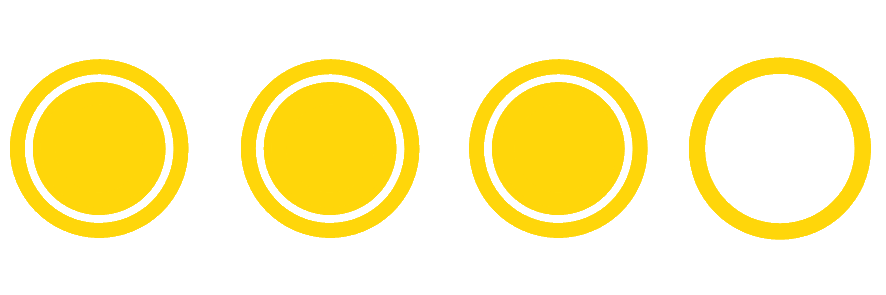
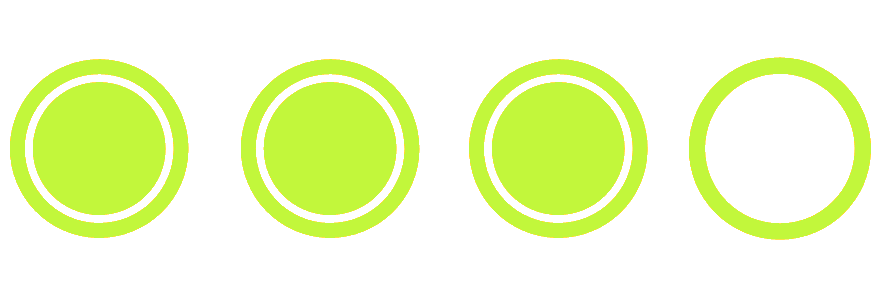
major change in colors, dark mode

diff --git a/css/main.css b/css/main.css
@@ -1,7 +1,15 @@
+/* CSS HEX
+--slate-gray: #6C798Cff;
+--coffee: #5E4B34ff;
+--timberwolf: #D8D9D3ff;
+--cadet-gray: #93A0B2ff;
+
+/*
+
 /* GENERAL */
 body {
-    color: rgb(38, 46, 58);
-    background: #1F2232;
+    color: #EFF7FF;
+    background: #DCEDFF;
     font-family: 'Ubuntu', sans-serif;
     text-align: left;
 }
@@ -10,7 +18,7 @@ body {
     border-radius: 1.2rem;
 }
 .container {
-    background-color: #D7DAE5;
+    background-color: #1b2530;
     margin: 20px auto;
     padding: 5px 0px;
     max-width: 1000px;
@@ -26,7 +34,7 @@ header {
 
 header img {
     width: 120px;
-    border: 3px solid rgb(56, 145, 167);
+    border: 3px solid #2E4052;
     border-left: none;
     border-bottom-right-radius: 1.2rem;
     border-top-right-radius: 1.2rem;
@@ -34,12 +42,10 @@ header img {
     float: left;
 }
 
-
-
 .intro {
-    background-color: #3891a7;
+    background-color: #2E4052;
     padding: 15px;
-    color: #D7DAE5;
+    color: #DCEDFF;
     margin: 20px;
     margin-right: 0px;
     border-top-left-radius: 1.2rem;
@@ -55,14 +61,14 @@ header img {
 .contact {
     padding: 10px 15px;
     float: right;
-    background-color: #D7DAE5;
-    color: #3891a7;
+    background-color: #c2f73b;
+    color: #1b2530;
     text-align: right;
     margin-right: -15px;
     margin-left: auto;
     border-top-left-radius: 1.2rem;
     border-bottom-left-radius: 1.2rem;
-    border: 3px solid #3891a7;
+    border: 3px solid #2E4052;
     border-right: none;
     box-shadow: 2px 2px 3px black;
 }
@@ -72,7 +78,7 @@ header img {
 }
 
 .contact p a {
-    color: #3891a7;
+    color: #1b2530;
 }
 
 h1 {
@@ -80,16 +86,16 @@ h1 {
     font-size: clamp(1.75rem, 10vw, 3.5rem);
     text-shadow: 2px 2px 3px black;
     text-align: left;
-    color: #F7F06D;
+    color: #F18F01;
     margin: 10px 0px 20px 0px;
-    border-bottom: 2px solid #D7DAE5;
+    border-bottom: 2px solid #DCEDFF;
 }
 
 h2 {
     font-family:  'Comfortaa', cursive;
     font-size: clamp(20px, 7vw, 28px);
     margin: 0;
-    color: #1F2232;
+    color: #DCEDFF;
 }
 
 /* MAIN */
@@ -119,7 +125,9 @@ li {
 }
 
 button {
-    background-color: #3891a7;
+    background-color: #2E4052;
+    font-family: 'Ubuntu', sans-serif;
+    color: #c2f73b;
     cursor: pointer;
     border-radius: 10px;
     border: none;
@@ -152,9 +160,9 @@ button.link {
 
 
 .skillLevel {
-    border-bottom: 2px solid #D7DAE5;
+    border-bottom: 2px solid #F18F01;
     max-width: 150px;
-    color: rgb(137, 225, 247);
+    color: #F18F01;
     margin-bottom: 20px;
 }
 
@@ -173,20 +181,19 @@ button.link {
 
 .detailsBox {
     display: none;
-    background-color: #1F2232;
-    color: #D7DAE5;
+    background-color: #1b2530;
+    color: #EFF7FF;
     padding: 30px;
     border-radius: 15px;
-    margin: 10px 20px;
-    margin-top: -5px;
+    margin: 5px 20px;
+    border: 2px solid #2E4052;
     box-shadow: 2px 2px 3px black;
 }
 
-
-.skills .detailsBox, .certification .detailsBox {
-    margin: 10px;
-    margin-top: 5px;
+.certification .detailsBox, .skills .detailsBox{
+    margin: 5px 0px;
 }
+
 
 .icon {
     width: clamp(35px, 10vw, 50px);
@@ -238,7 +245,7 @@ a {
     
     .intro {
         padding: 20px 20px;
-        color: #D7DAE5;
+        color: ##DCEDFF;
         border-bottom: none;
         margin-right: 0px;
         border-top-left-radius: 1.2rem;
@@ -252,12 +259,12 @@ a {
 /* USE HOVER STYLES ONLY ON NON-TOUCH DEVICES */
 @media (hover: hover) and (pointer: fine) {
     header img:hover, header img:active {
-        border: 3px solid #4ec7e6;
+        border: 3px solid #3f5870;
         border-left: none;
     }
 
     button:hover, button:active {
-        background-color: #4ec7e6;
+        background-color: #3f5870;
         box-shadow: 5px 5px 5px black;
     }
     

diff --git a/js/index.js b/js/index.js
@@ -5,8 +5,7 @@ function showOrHide(elementId) {
     
     if (window.getComputedStyle(element, null).display == "none") {
         document.getElementById(elementId).style.display = "block";
-        document.getElementById(elementButton).style.backgroundColor = "#2c6979";
-        document.getElementById(elementButton).style.color = "black"
+        document.getElementById(elementButton).style.backgroundColor = "#1e2a35";
         document.getElementById(elementButton).style.boxShadow = "1px 1px 2px black";
     }
     else {
